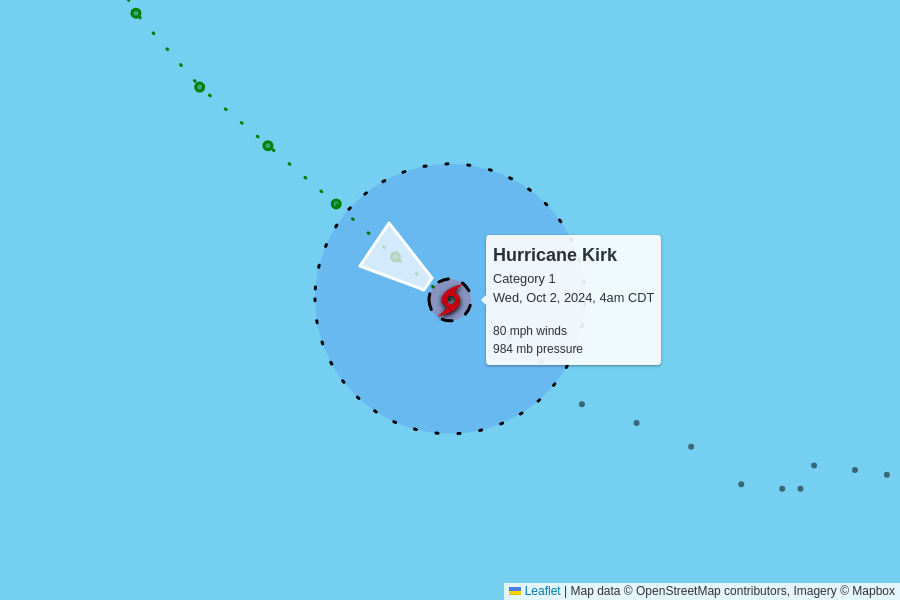
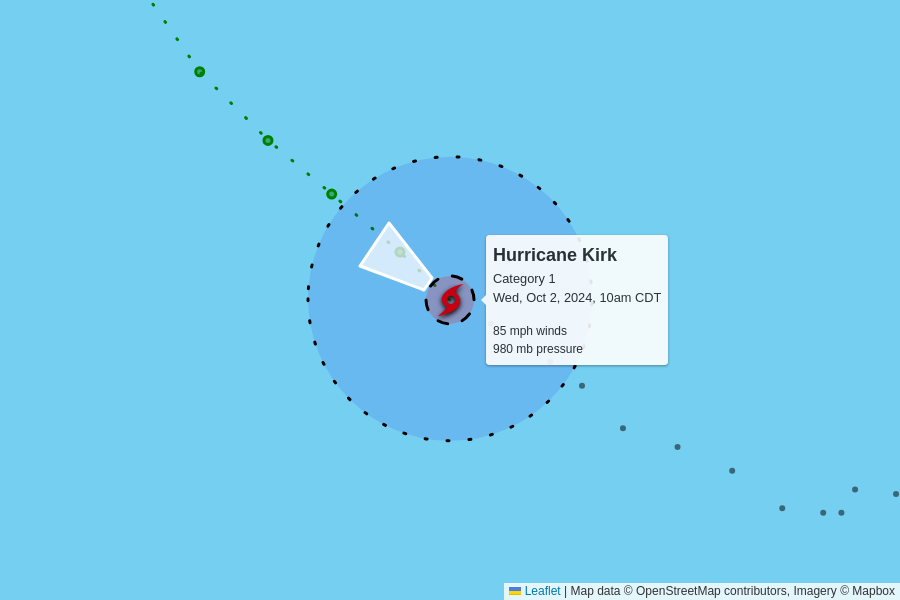
automatic update

diff --git a/docs/index.html b/docs/index.html
@@ -96,13 +96,15 @@
     </p>
 
     
+    <h2>2 active storms</h2>
+    <img src="active.png">
 
     <table>
       <tr>
         <td colspan="6" class="storm category-1" >
           <h2>
             Hurricane Kirk - Category 1
-            <p class="updated">last updated <span data-time>2024-10-02T09:00:00.000Z</span></p>
+            <p class="updated">last updated <span data-time>2024-10-02T15:00:00.000Z</span></p>
           </h2>
         </td>
       </tr>
@@ -117,10 +119,10 @@
       </tr>
       <tr>
         <td class="spacer"></td>
-        <td>80 mph<br>+5 mph since last update</td>
-        <td>984 mb<br>-2 mb since last update</td>
+        <td>85 mph<br>+5 mph since last update</td>
+        <td>980 mb<br>-4 mb since last update</td>
         <td>
-          14 mph to the northwest
+          12 mph to the northwest
           <br/>
           <span style="display: inline-block; font-size: 1.5em; transform: rotate(305deg);">↑</span>
         </td>
@@ -132,6 +134,50 @@
         <td colspan="5">
           <figure>
             <img src="AL122024.png">
+            <figcaption>
+              Map data &copy; <a href="https://www.openstreetmap.org/copyright">OpenStreetMap</a> contributors,
+              Imagery &copy; <a href="https://www.mapbox.com/">Mapbox</a> |
+              <a href="https://www.mapbox.com/map-feedback/" target="_blank">Improve this map</a>
+            </figcaption>
+          </figure>
+        </td>
+      </tr>
+      
+
+      <tr>
+        <td colspan="6" class="storm category-0" >
+          <h2>
+            Tropical Depression Thirteen
+            <p class="updated">last updated <span data-time>2024-10-02T15:00:00.000Z</span></p>
+          </h2>
+        </td>
+      </tr>
+      
+      <tr>
+        <th class="spacer"></th>
+        <th>wind speed</th>
+        <th>central pressure</th>
+        <th>movement</th>
+        <th>data (CSV)</th>
+        <th>National Hurricane Center</th>
+      </tr>
+      <tr>
+        <td class="spacer"></td>
+        <td>35 mph</td>
+        <td>1006 mb</td>
+        <td>
+          7 mph to the west
+          <br/>
+          <span style="display: inline-block; font-size: 1.5em; transform: rotate(270deg);">↑</span>
+        </td>
+        <td><a href="https://raw.githubusercontent.com/mgwalker/atlantic-hurricanes/main/data/csv/AL132024.csv">AL132024.csv</a></td>
+        <td><a href="https://www.nhc.noaa.gov/archive/2024/THIRTEEN.shtml?">NHC advisories</a></td>
+      </tr>
+      <tr id="storm_AL132024" >
+        <td class="spacer">
+        <td colspan="5">
+          <figure>
+            <img src="AL132024.png">
             <figcaption>
               Map data &copy; <a href="https://www.openstreetmap.org/copyright">OpenStreetMap</a> contributors,
               Imagery &copy; <a href="https://www.mapbox.com/">Mapbox</a> |
